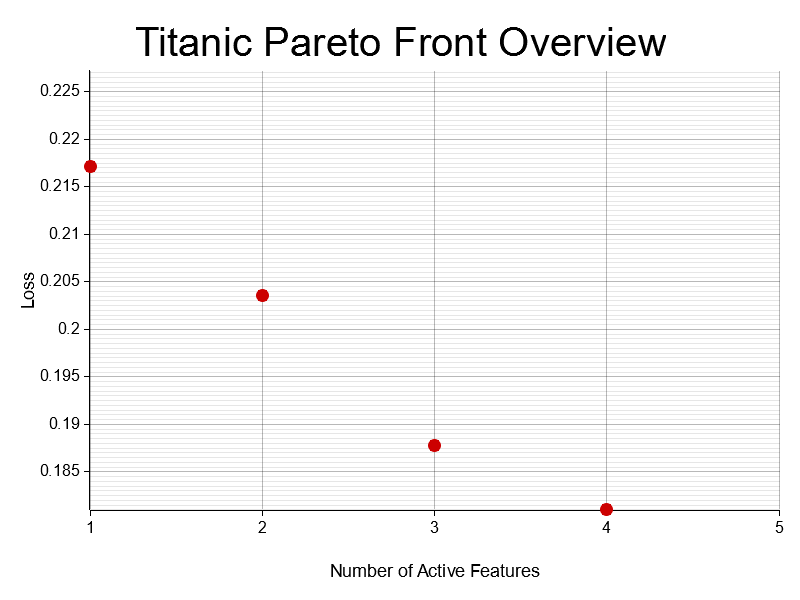
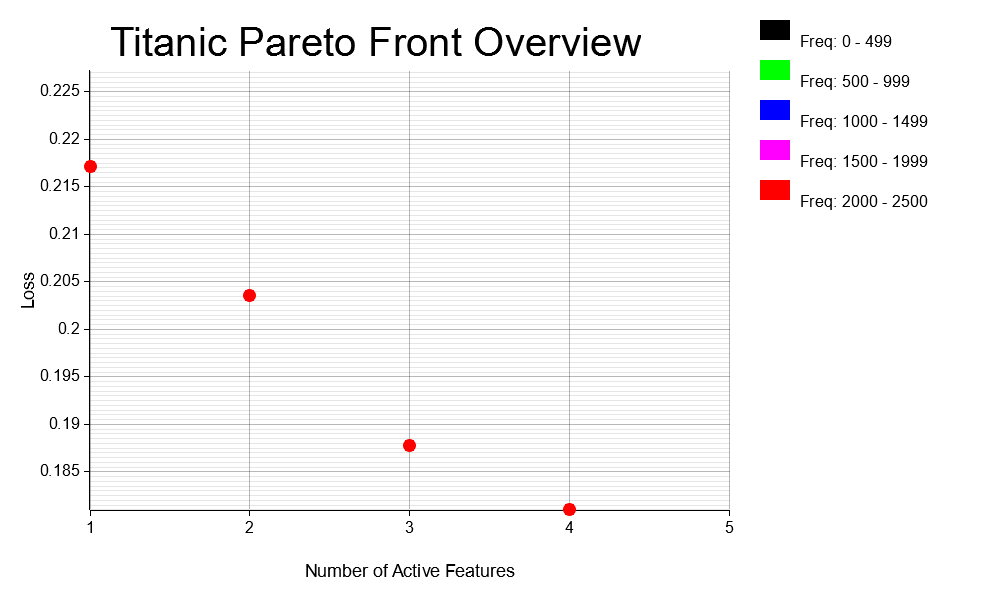
Added finalized version of histogram plotter, and multirun plot and csv summary

diff --git a/src/algorithms/moo/moo.rs b/src/algorithms/moo/moo.rs
@@ -4,6 +4,7 @@ use rand::prelude::*;
 use plotters::prelude::*;
 use std::collections::HashMap;
 use std::time::{Instant, Duration};
+use serde::Serialize; // Import Serialize derive macro
 
 
 #[derive(Debug, Clone)]
@@ -722,34 +723,68 @@ pub fn execute_run_n_times(
     all_best
 }
 
-// Helper function to linearly interpolate between two u8 values.
-fn lerp(a: u8, b: u8, t: f64) -> u8 {
-    (a as f64 + t * ((b as f64) - (a as f64))).round() as u8
+#[derive(Serialize)]
+struct RunMetric {
+    loss: f64,
+    num_features: usize,
+    frequency: usize,
+    percentage: f64,
+    combination: String,
 }
 
-/// Interpolates a color given a value in [0,1] and a set of color stops.
-/// Each stop is a tuple (t, (r, g, b)) where t is the normalized frequency value.
-fn interpolate_color(value: f64, stops: &[(f64, (u8, u8, u8))]) -> RGBColor {
-    // If value is below the first stop, return the first color.
-    if value <= stops[0].0 {
-        let (r, g, b) = stops[0].1;
-        return RGBColor(r, g, b);
-    }
-    // Otherwise, find the two stops surrounding value.
-    for i in 0..stops.len() - 1 {
-        let (t0, (r0, g0, b0)) = stops[i];
-        let (t1, (r1, g1, b1)) = stops[i + 1];
-        if value >= t0 && value <= t1 {
-            let t = (value - t0) / (t1 - t0);
-            let r = lerp(r0, r1, t);
-            let g = lerp(g0, g1, t);
-            let b = lerp(b0, b1, t);
-            return RGBColor(r, g, b);
+pub fn save_run_metrics_to_csv(
+    all_best: &[MooCombination],
+    filename: &str,
+) -> Result<(), Box<dyn std::error::Error>> {
+    // Build a frequency map for unique individuals (using a key based on number of active features and loss).
+    let mut freq_map: std::collections::HashMap<String, usize> = std::collections::HashMap::new();
+    for ind in all_best {
+        if ind.loss.is_infinite() {
+            continue;
         }
+        let (active, loss) = get_fitness(ind);
+        // Key format: "(num_features, loss)" with loss rounded to 3 decimal places.
+        let key = format!("({}, {:.3})", active, loss);
+        *freq_map.entry(key).or_insert(0) += 1;
     }
-    // If value exceeds the last stop, return the last color.
-    let (r, g, b) = stops.last().unwrap().1;
-    RGBColor(r, g, b)
+    // Total count of valid individuals (for percentage calculations).
+    let total: usize = freq_map.values().copied().sum();
+
+    // Create a map for unique individuals.
+    let mut unique_points: std::collections::HashMap<String, &MooCombination> = std::collections::HashMap::new();
+    for ind in all_best {
+        if ind.loss.is_infinite() {
+            continue;
+        }
+        let (active, loss) = get_fitness(ind);
+        let key = format!("({}, {:.3})", active, loss);
+        unique_points.entry(key).or_insert(ind);
+    }
+
+    let mut wtr = csv::Writer::from_path(filename)?;
+    // For each unique solution, write a row with its loss, num_features, frequency, percentage, and gene combination.
+    for (key, ind) in unique_points {
+        let frequency = *freq_map.get(&key).unwrap_or(&0);
+        let percentage = ((frequency as f64 / total as f64) * 100.0 * 100.0).round() / 100.0;
+        let (active, loss) = get_fitness(ind);
+        // Convert the gene combination (vector of booleans) into a comma-separated string.
+        let combination_str = ind
+            .combination
+            .iter()
+            .map(|b| if *b { "1" } else { "0" })
+            .collect::<Vec<&str>>()
+            .join(",");
+        let metric = RunMetric {
+            loss,
+            num_features: active,
+            frequency,
+            percentage,
+            combination: combination_str,
+        };
+        wtr.serialize(metric)?;
+    }
+    wtr.flush()?;
+    Ok(())
 }
 
 pub fn plot_best_pareto_overview(
@@ -808,22 +843,24 @@ pub fn plot_best_pareto_overview(
         .map(|ind| ind.loss)
         .fold(f64::NEG_INFINITY, |a, b| a.max(b));
     
-    // Find maximum frequency for normalization.
+    // Find maximum frequency for grouping.
     let max_freq = freq_map.values().copied().max().unwrap_or(1);
     
-    // Define color stops for the gradient.
-    let color_stops = vec![
-        (0.0, (0, 255, 0)),     // Green at normalized value 0.0
-        (0.25, (255, 255, 0)),  // Yellow at 0.25
-        (0.5, (255, 0, 255)),   // Magenta at 0.5
-        (0.75, (0, 0, 255)),    // Blue at 0.75
-        (1.0, (255, 0, 0)),     // Red at 1.0
+    // Set up discrete groups dynamically.
+    let tick_count = 5;
+    let discrete_colors = vec![
+        RGBColor(0, 0, 0),    // Black
+        RGBColor(0, 255, 0),  // Green
+        RGBColor(0, 0, 255),  // Blue
+        RGBColor(255, 0, 255),    // Magenta
+        RGBColor(255, 0, 0),    // Red
     ];
+    let group_interval = max_freq as f64 / tick_count as f64;
     
     // Set up the drawing area and split it for the chart and legend.
     let root = BitMapBackend::new(filename, (1000, 600)).into_drawing_area();
     root.fill(&WHITE)?;
-    let areas = root.split_horizontally(800); // 800 pixels for the chart, 200 for the legend
+    let areas = root.split_horizontally(750); 
     let chart_area = areas.0.clone();
     let legend_area = areas.1.clone();
     
@@ -843,58 +880,57 @@ pub fn plot_best_pareto_overview(
         .y_label_style(("sans-serif", 20).into_font())
         .draw()?;
     
-    // Plot each unique point using a color computed from the normalized frequency.
+    // Plot each unique point using the discrete color based on its frequency.
     for (key, ind) in unique_points {
         let frequency = *freq_map.get(&key).unwrap_or(&0);
         let x = ind.combination.iter().filter(|&&b| b).count() as i32;
         let y = ind.loss;
     
-        let normalized = frequency as f64 / max_freq as f64; // value in [0,1]
-        let color = interpolate_color(normalized, &color_stops);
+        // Determine which group the frequency falls into.
+        let mut group_index = ((frequency as f64) / group_interval).floor() as usize;
+        if group_index >= tick_count {
+            group_index = tick_count - 1;
+        }
+        let color = discrete_colors[group_index];
     
         chart.draw_series(std::iter::once(
             Circle::new((x, y), 6, color.filled()),
         ))?;
     }
     
-    // Draw the legend in the legend area.
+    // Draw the legend in the legend area using the same discrete groups.
     legend_area.fill(&WHITE)?;
     let legend_font = ("sans-serif", 20).into_font();
-    let tick_count = 5;
-    let legend_height = 200;
-    let legend_width = 30;
-    let start_y = 20;
-    let step_y = (legend_height - start_y) / tick_count;
-    
-    for i in 0..=tick_count {
-        let t = i as f64 / tick_count as f64; // normalized value
-        let color = interpolate_color(t, &color_stops);
-        // Compute the corresponding frequency.
-        let freq_value = (t * max_freq as f64).round() as usize;
-        let rect_top = start_y + i * step_y;
+    let mut y_pos = 20;
+    for i in 0..tick_count {
+        let lower = (group_interval * i as f64).round() as usize;
+        let upper = if i == tick_count - 1 {
+            max_freq
+        } else {
+            (group_interval * (i + 1) as f64).round() as usize - 1
+        };
+        let label = format!("Freq: {} - {}", lower, upper);
+        let color = discrete_colors[i];
         // Draw a small colored rectangle.
         legend_area.draw(&Rectangle::new(
-            [(10, rect_top), (10 + legend_width, rect_top + 20)],
+            [(10, y_pos), (40, y_pos + 20)],
             color.filled(),
         ))?;
-        // Draw the label aligned vertically with the center of the rectangle.
-        let label = format!("Freq ≈ {}", freq_value);
+        // Draw the label vertically centered relative to the rectangle.
         legend_area.draw(&Text::new(
             label,
-            (10 + legend_width + 10, rect_top + 10), // use rect_top + 10 for vertical centering
+            (50, y_pos + 14),
             legend_font.clone(),
         ))?;
+        y_pos += 40;
     }
-    
     
     root.present()?;
     println!("Best Pareto Front overview plot saved to {}", filename);
     Ok(())
 }
 
-
 pub fn plot_histogram(population: &[MooCombination], filename: &str) -> Result<(), Box<dyn std::error::Error>> {
-    use std::collections::HashMap;
     // Group individuals by the fitness tuple from get_fitness.
     // For each group, store (loss, best_rank, frequency)
     let mut groups: HashMap<String, (f64, i8, usize)> = HashMap::new();
@@ -930,8 +966,8 @@ pub fn plot_histogram(population: &[MooCombination], filename: &str) -> Result<(
     // Find the maximum frequency among the groups (for the y-axis)
     let max_freq = group_vec.iter().map(|(_, _, _, freq)| *freq).max().unwrap();
 
-    // Create the drawing area with 800x600 pixels.
-    let root = BitMapBackend::new(filename, (800, 600)).into_drawing_area();
+    // Create the drawing area with 1000X600 pixels.
+    let root = BitMapBackend::new(filename, (1000, 600)).into_drawing_area();
     root.fill(&WHITE)?;
 
     // Build the chart.
@@ -949,7 +985,7 @@ pub fn plot_histogram(population: &[MooCombination], filename: &str) -> Result<(
         .y_desc("Frequency")
         .x_label_formatter(&|&x| {
             if (x as usize) < group_vec.len() {
-                format!("                    {}", group_vec[x as usize].0)  // prepend spaces
+                format!("            {}", group_vec[x as usize].0)  // prepend spaces
             } else {
                 "".to_string()
             }
@@ -1003,7 +1039,7 @@ pub fn init() {
     let generations = 1000; // Number of generations to run
     let generations_to_print = 100; // Print every x generations
     let mut gene_length = 9; // Number of features (columns) in the dataset
-    let n_times = 50;
+    let n_times = 100;
 
     // let final_sorted_population = run_moo_algorithm(file_path, population_size, generations, generations_to_print, gene_length);
 
@@ -1032,9 +1068,13 @@ pub fn init() {
     // 1) Loads the breast cancer dataset
     let file_path = "XGB-Feature-Selection/output/breast_cancer_wisconsin_original"; 
     let plot_filename = "src/output/moo/nsga_2_breast_cancer_multiple.png";
+    let csv_filename = "src/output/moo/nsga_2_breast_cancer_summary.csv";
     gene_length = 9;
 
-    let all_best = execute_run_n_times(
+    // Starts a timer before the exec
+    let mut start_time = Instant::now();
+
+    let all_best_cancer = execute_run_n_times(
         n_times, 
         population_size, 
         generations, 
@@ -1044,12 +1084,22 @@ pub fn init() {
         false,
         true
     );
-    plot_best_pareto_overview(&all_best, plot_filename, "Breast Cancer").unwrap();
+    // Ends the timer after the exec
+    let mut elapsed_time = start_time.elapsed();
+    println!("Elapsed time for the Breast Cancer dataset: {:?}", elapsed_time);
+
+    plot_best_pareto_overview(&all_best_cancer, plot_filename, "Breast Cancer").unwrap();
+    plot_histogram(&all_best_cancer, "src/output/moo/nsga_2_breast_cancer_histogram.png").unwrap();
+    let _1 = save_run_metrics_to_csv(&all_best_cancer, csv_filename);
 
     // 2) Loads the wine quality dataset
     let file_path = "XGB-Feature-Selection/output/wine_quality_combined"; 
     let plot_filename = "src/output/moo/nsga_2_wine_combined_multiple.png";
+    let csv_filename = "src/output/moo/nsga_2_wine_combined_summary.csv";
     gene_length = 11;
+
+    // Reset the timer before the exec
+    start_time = Instant::now();
 
     let all_best_wine = execute_run_n_times(
         n_times, 
@@ -1061,12 +1111,23 @@ pub fn init() {
         false,
         true
     );
+    // Ends the timer after the exec
+    elapsed_time = start_time.elapsed();
+    println!("Elapsed time for the Wine dataset: {:?}", elapsed_time);
+
     plot_best_pareto_overview(&all_best_wine, plot_filename, "Wine").unwrap();
+    plot_histogram(&all_best_wine, "src/output/moo/nsga_2_wine_combined_histogram.png").unwrap();
+    let _2 = save_run_metrics_to_csv(&all_best_wine, csv_filename);
+
 
     // 3) Loads the breast cancer dataset
     let file_path = "XGB-Feature-Selection/output/titanic"; 
     let plot_filename = "src/output/moo/nsga_2_titanic_multiple.png";
+    let csv_filename = "src/output/moo/nsga_2_titanic_summary.csv";
     gene_length = 8;
+
+    // Reset the timer before the exec
+    start_time = Instant::now();
 
     let all_best_titanic = execute_run_n_times(
         n_times, 
@@ -1078,7 +1139,14 @@ pub fn init() {
         false,
         true
     );
+
+    // Ends the timer after the exec
+    elapsed_time = start_time.elapsed();
+    println!("Elapsed time for the Titanic dataset: {:?}", elapsed_time);
+
     plot_best_pareto_overview(&all_best_titanic, plot_filename, "Titanic").unwrap();
+    plot_histogram(&all_best_titanic, "src/output/moo/nsga_2_titanic_histogram.png").unwrap();
+    let _3 = save_run_metrics_to_csv(&all_best_titanic, csv_filename);
 
 
 
